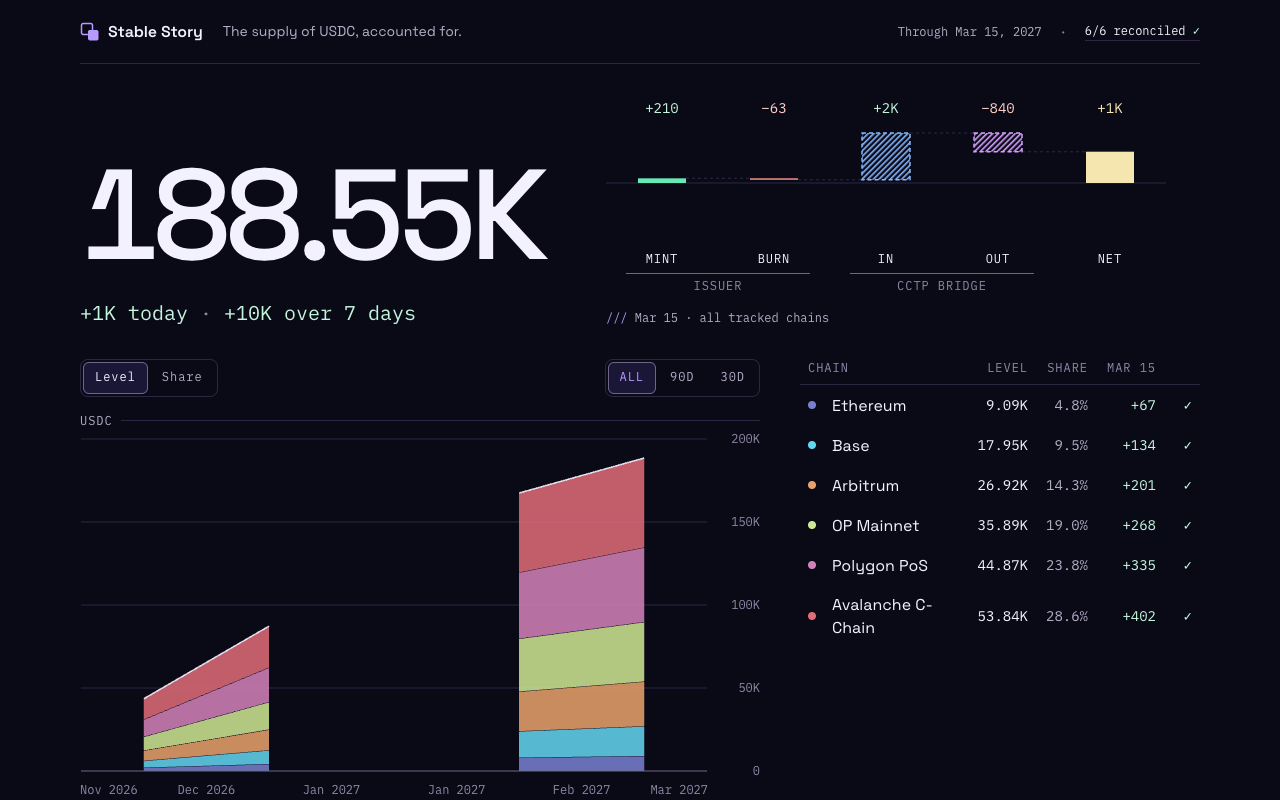
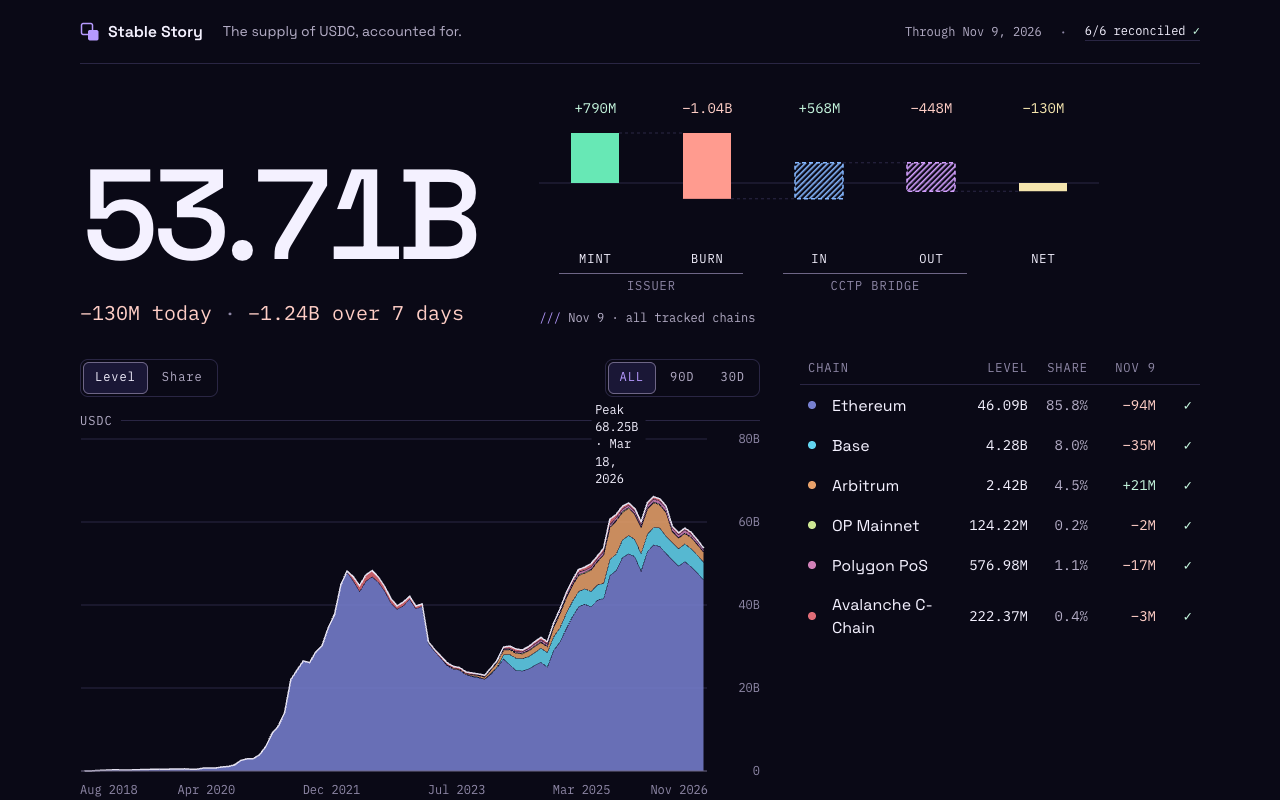
docs: rewrite showcase README and refresh media from live data

diff --git a/README.md b/README.md
@@ -1,64 +1,60 @@
-# Stable Story[^working-name]
-
-![The first screen: tracked supply, day waterfall, and chain list](docs/media/hero.png)
-
-*Screenshot rendered from the six-chain mock state the project's own checks use for screenshot evidence.*
+# Stable Story
 
 [**The supply of USDC, accounted for.**](https://stable-story.vercel.app)
 
-USDC supply by chain. Every day attributed to issuer or bridge, and reconciled against the contract.
+USDC supply across Ethereum, Base, Arbitrum, OP Mainnet, Polygon PoS, and Avalanche C-Chain — every closed day attributed to Circle (issuer) or the CCTP bridge, and reconciled against the on-chain contract.
 
-`live · updated daily · six chains`
+`live` · `updated daily` · `six chains`
 
-What's unusual about this page:
+![Stable Story — tracked supply, daily waterfall, and multi-chain stack](docs/media/hero.png)
 
-- Every day is reconciled against the on-chain contract, and every bridge operation is paired across chains —
-  unpaired logs are flagged, never silently counted.
-- Production has no database server: the backend stays local and publishes prepared read-only documents;
-  hosting the data costs $0/month.
-- The data contract is about 600 lines of zod invariants in `packages/contracts/src/schemas.ts`, with negative
-  tests asserting the exact error path.
+## What makes it unusual
 
-[^working-name]: Stable Story is a working name; it may change.
+- **Every day is reconciled against the contract.** Each closed chain-day runs three checks: computed supply vs. on-chain `totalSupply`, cross-chain CCTP V1/V2 burn-to-mint pairing, and day-over-day continuity. Unpaired supply logs and mismatched days stay visible and flagged on the page — never silently dropped or zeroed.
+- **No database server in production ($0/month hosting).** The analytical backend (log ingestion, pairing, reconciliations, Postgres) runs locally and publishes immutable, versioned read-only JSON documents to private Cloudflare R2 after each day closes. The Next.js App Router site renders on the server from that prepared document; the browser makes no API or storage requests and receives no credentials.
+- **~600 lines of Zod cross-field invariants.** Every response and publication envelope is validated by [`packages/contracts/src/schemas.ts`](packages/contracts/src/schemas.ts) and [`publication.ts`](packages/contracts/src/publication.ts), with negative unit tests asserting the exact error path for each broken invariant.
 
 ## Start here
 
-- The live site: [stable-story.vercel.app](https://stable-story.vercel.app).
-- The data contract: [`packages/contracts/src/schemas.ts`](packages/contracts/src/schemas.ts) — every invariant
-  the page relies on, including the publication envelope.
-- The shared view logic: [`packages/view`](packages/view) — pure formatting, quality, periods, and chart scales
-  over API responses; it never aggregates.
-- [Data quality](docs/data-quality.md) — the three daily reconciliations, CCTP pairing, and the gap and
-  unreconciled-day policies.
-- [Architecture](docs/architecture.md) — the whole system with the backend as a black box with interfaces.
+1. **Live site:** [stable-story.vercel.app](https://stable-story.vercel.app)
+2. **Data contract:** [`packages/contracts/src/schemas.ts`](packages/contracts/src/schemas.ts) and [`packages/contracts/src/publication.ts`](packages/contracts/src/publication.ts) — schemas, cross-field invariants, and the R2 pointer/manifest envelope.
+3. **Shared view logic:** [`packages/view`](packages/view) — pure TypeScript formatting, quality flags, day equation, period selection, and chart scales (`Intl` and ES APIs only; never aggregates or re-buckets).
+4. **System architecture:** [`docs/architecture.md`](docs/architecture.md) — end-to-end data flow with the analytical backend documented as an interface-level black box.
+5. **Data quality & sample payload:** [`docs/data-quality.md`](docs/data-quality.md) and [`docs/overview-example.md`](docs/overview-example.md) ([`overview-example.json`](docs/overview-example.json)) — the three daily reconciliations, CCTP pairing rules, gap policy, and an annotated `overview` excerpt.
 
 ## What the page shows
 
-Header figures, the day equation (issuer mint, issuer burn, bridge in, bridge out, net), the 20 largest
-operations of 7 days, records, and per-chain status. Charts run at three periods — 30D by days, 90D by weeks
-(covering exactly 90 days), ALL by months from the earliest day with data of any chain — with the period control
-mirrored in the sticky bar once the hero scrolls away:
+The page is rendered from a single prepared `overview` document in five blocks:
 
-![Charts at 30D/90D/ALL with the sticky period control](docs/media/charts.png)
+- **Hero & daily waterfall** — tracked USDC supply across all six chains, 1-day and 7-day deltas, and the latest closed day's five-bar waterfall (`mint`, `burn`, `bridge in`, `bridge out`, `net`).
+- **Supply stack & chain list** — per-chain levels and shares at three server-computed resolutions: `30D` by day, `90D` by week (exact 90-day window), and `ALL` by calendar month from the earliest covered day of any chain. Chains before their coverage start carry `null` ("no data"), never `0`.
+- **Flows (`What moved it`)** — issuer mint/burn (solid bands) against CCTP bridge in/out (hatched bands) and net flow, filterable by chain.
+- **Largest operations & records** — the 20 largest operations of the last 7 days linked to chain explorers (with CCTP version and peer chain), followed by all-time highs and per-chain reconciliation status.
 
-*Same mock render as above: the ALL stack and the flows section under the sticky bar; the page opens on ALL.*
+![Flows and largest operations under the sticky period bar](docs/media/charts.png)
 
-The server decides the window step and the selection; the page renders the step it is given and never aggregates.
-A chain without data for a period is "no data" — not zero, not drawn. How it all fits together is in
-[architecture](docs/architecture.md); what "reconciled" means is in [data quality](docs/data-quality.md); the
-document shape, with a trimmed real example, is in [the overview example](docs/overview-example.md)
-([raw JSON](docs/overview-example.json)).
+## Workspace layout
+
+| Package | Role | Allowed workspace imports |
+|---|---|---|
+| [`apps/web`](apps/web) | Next.js App Router page (dynamic SSR, zero client data fetching) | `contracts`, `tokens`, `view` |
+| [`apps/mobile`](apps/mobile) | Expo SDK 58 / React Native 0.88 app (`Today`, `History`, `Operations`, `Chain`) | `contracts`, `tokens`, `view` |
+| [`packages/contracts`](packages/contracts) | Zod schemas, DTOs, `ApiClient` (HTTP & mock), publication envelope | — |
+| [`packages/tokens`](packages/tokens) | Typed design tokens (`Violet Observatory`); generates web `tokens.css` and native theme | — |
+| [`packages/view`](packages/view) | Pure view transformations, scales, and tooltip models | `contracts` (types only) |
+
+Module boundaries are enforced by ESLint (`eslint.boundaries.js`) across static imports, dynamic imports, re-exports, and type imports.
 
 ## Checks
 
-| Check | What it proves |
+| Command | What it proves |
 |---|---|
-| `pnpm typecheck` | The workspace root and every package compile under strict TypeScript. |
-| `pnpm lint` | ESLint passes, including the enforced module boundaries between contracts, view, and apps. |
-| `pnpm test` | Unit suite: the shared view logic, the zod contract with negative tests on the error path, page tests. |
-| `pnpm check:build` | The production build uses self-hosted fonts only, leaks no API/R2 access or contract internals into client assets, and passes the daily-window HTML/RSC check. |
-| `pnpm browser-smoke` | Headless Chrome over every mock state (ok, delayed, unreconciled, empty-day, short-history, gap, empty, unavailable, long-history): console, layout, charts, and tooltips. |
-| `pnpm test:rn` | The Expo app's native component tests. |
+| `pnpm typecheck` | Strict TypeScript (`erasableSyntaxOnly`, `verbatimModuleSyntax`) across the root and all packages. |
+| `pnpm lint` | ESLint 10 type-checked rules and module-boundary enforcement. |
+| `pnpm test` | Vitest unit suite: Zod contract invariants (with negative path assertions), view logic, and SSR page checks. |
+| `pnpm check:build` | Production Next.js build with self-hosted fonts only, zero R2/API credential leaks in client bundles, and the HTML/RSC daily-window check (no daily chart values older than 30 days). |
+| `pnpm browser-smoke` | Headless Chrome across every mock state (`ok`, `delayed`, `unreconciled`, `empty-day`, `short-history`, `gap`, `empty`, `unavailable`, `long-history`) at desktop, phone, and stress widths. |
+| `pnpm test:rn` | Jest / React Native component suite for the Expo mobile app. |
 
 ```bash
 pnpm install
@@ -70,16 +66,11 @@ pnpm test:rn
 
 ## Mobile
 
-An Expo (React Native) app reads the same `overview` document through a Cloudflare Worker that checks Firebase
-App Check: Today (day waterfall + chains), History (30D/90D/ALL with pinned tooltip), Operations (largest +
-records), and a Chain push screen. It reaches users after the web launch.
+[`apps/mobile`](apps/mobile) is an Expo (React Native) client built on the same `contracts`, `tokens`, and `view` packages, without sharing UI components with the web app. It reads the same prepared `overview` document through a Cloudflare Worker guarded by Firebase App Check and ships to users after the web launch.
 
 ## Known limitations
 
-- Stable Story is a working name and may change.
-- ALL starts at the earliest covered day; older periods are resolved by weeks (90D) and months (ALL) on the
-  server — the page never re-buckets.
-- Chain histories start at each chain's coverage start (Base from its deployment day) and deepen over time.
-- There is no public API and no data export by design; the page itself is the interface.
-- The mobile app reaches users after the web launch.
-- CI runs on manual dispatch.
+- *Stable Story* is a working name and may change.
+- `ALL` starts at the earliest covered day of any enabled chain (`2018-08-03` on Ethereum); older periods are pre-bucketed by week (`90D`) and calendar month (`ALL`) on the server, and the client never re-aggregates.
+- There is no public API or raw data export by design — the page is the interface.
+- GitHub Actions CI runs on manual dispatch (`workflow_dispatch`).
